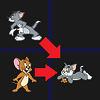
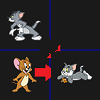
ert

Changed region(s): [[0.39, 0.36, 0.63, 0.6], [0.51, 0.66, 0.6, 0.78]]

diff --git a/Fantome/Fantome_main.py b/Fantome/Fantome_main.py
@@ -29,9 +29,9 @@ class ghost:
         self.Jerry_2 = PhotoImage(file = "Fantome/Ressources/Images/Jerry_2.png")
 
         self.Frame_main1_wind2 = Canvas(self.show_rules, bg = 'red', relief = GROOVE)
-        self.Frame_main1_wind2.pack(ipadx = 670, ipady = 530)
-        #self.Fond_Frame_main1_wind2 = PhotoImage(file = "thumbnail/Tete2.png")
-        #self.Frame_main1_wind2.create_image(335,265,image =Fond_Frame_main1_wind2)
+        self.Frame_main1_wind2.pack(ipadx = 670, ipady = 526)
+        self.Fond_Frame_main1_wind2 = PhotoImage(file = "thumbnail/Ghost2.png")
+        self.Frame_main1_wind2.create_image(335,263,image =self.Fond_Frame_main1_wind2)
         self.Frame_main2_wind2 = Frame(self.Frame_main1_wind2,width = 550, height = 425, relief = GROOVE)
         self.Frame_main2_wind2.place(x = 60, y = 45)
         self.Rules = Label(self.Frame_main2_wind2, text = 'Les règles:', font = ("Berlin Sans FB", 23), relief = GROOVE)
